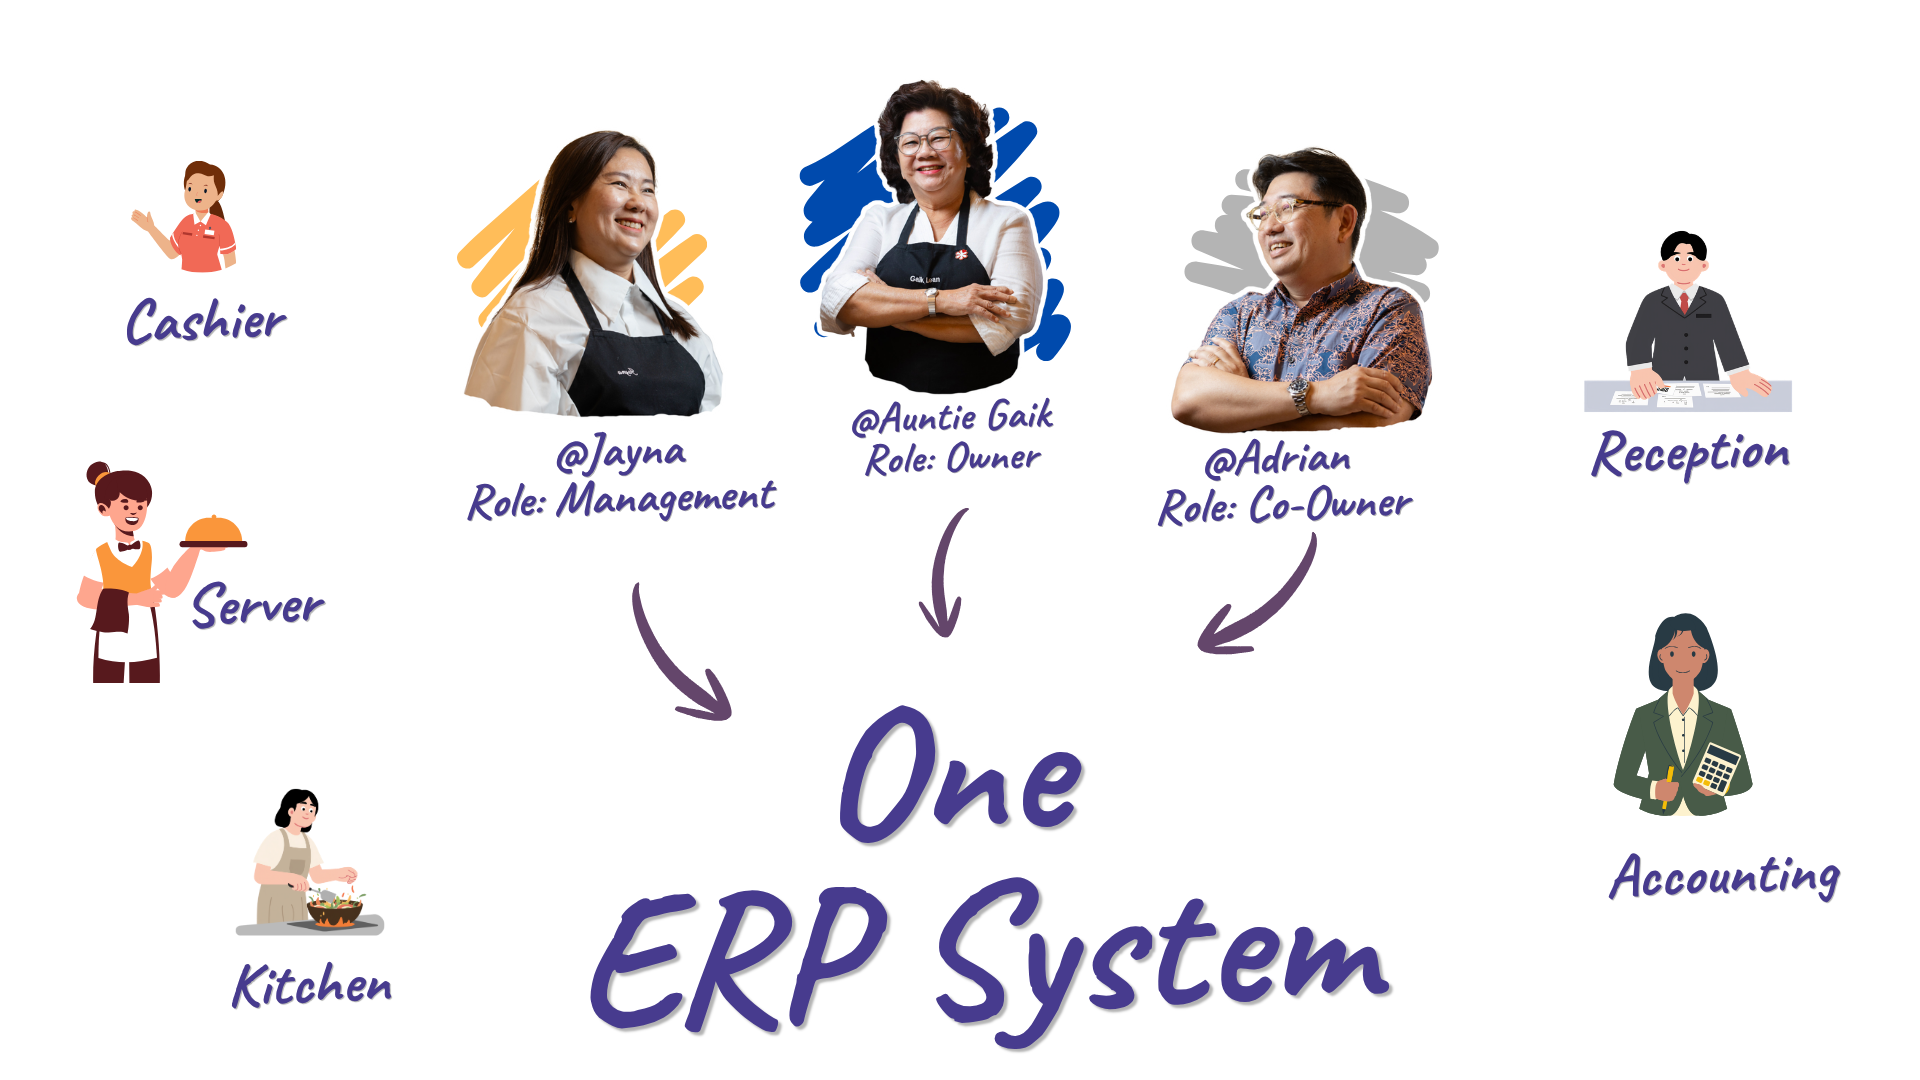
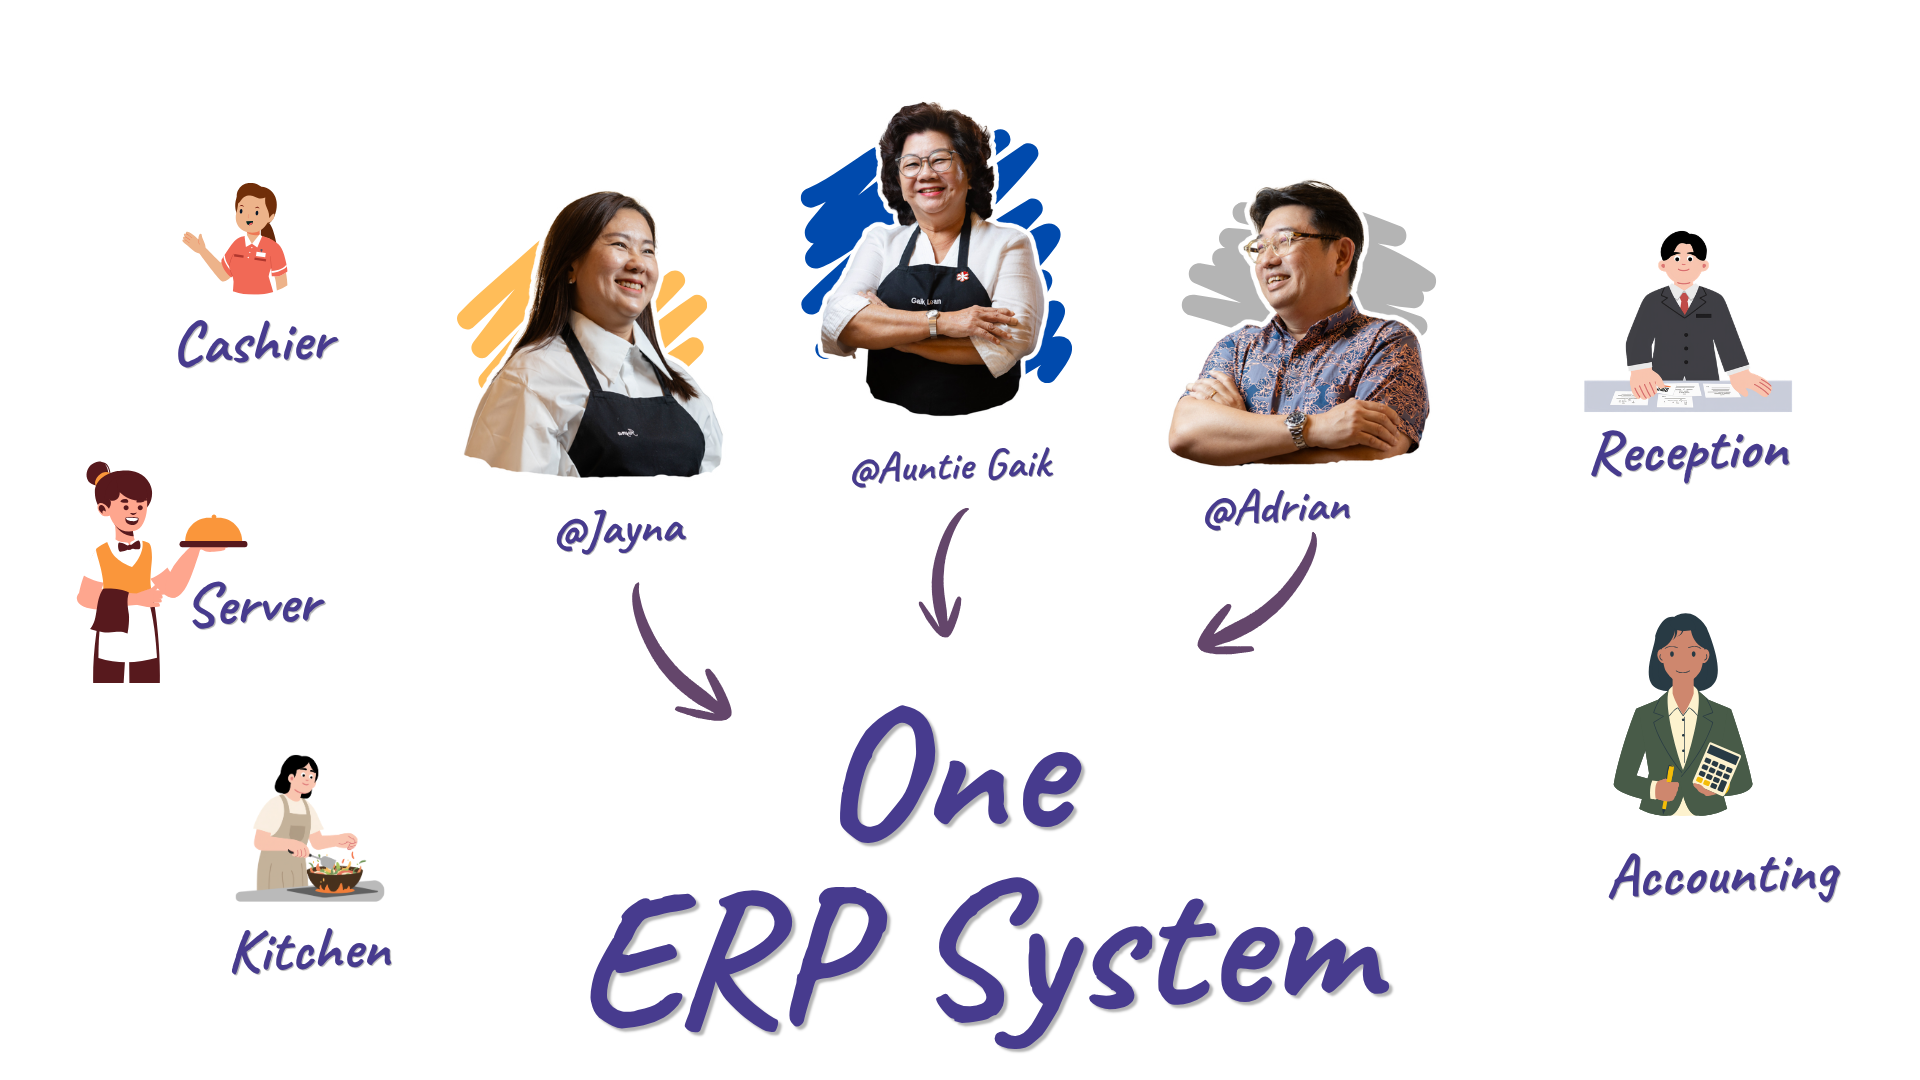
Update One ERP System diagram (roles removed); cache-bust to v3

diff --git a/index.html b/index.html
@@ -166,7 +166,7 @@
     </div>
 
     <div class="intro-figures">
-      <figure class="intro-frame"><img src="img/IMAGE%20NEW/2.png?v=2" alt="Every role — cashier, server, kitchen, reception, accounting and the owners — feeds into one ERP system"/></figure>
+      <figure class="intro-frame"><img src="img/IMAGE%20NEW/2.png?v=3" alt="Every role — cashier, server, kitchen, reception, accounting and the owners — feeds into one ERP system"/></figure>
       <figure class="intro-frame"><img src="img/IMAGE%20NEW/3.png?v=2" alt="Proper workflow leads to efficient management"/></figure>
     </div>
   </div>
